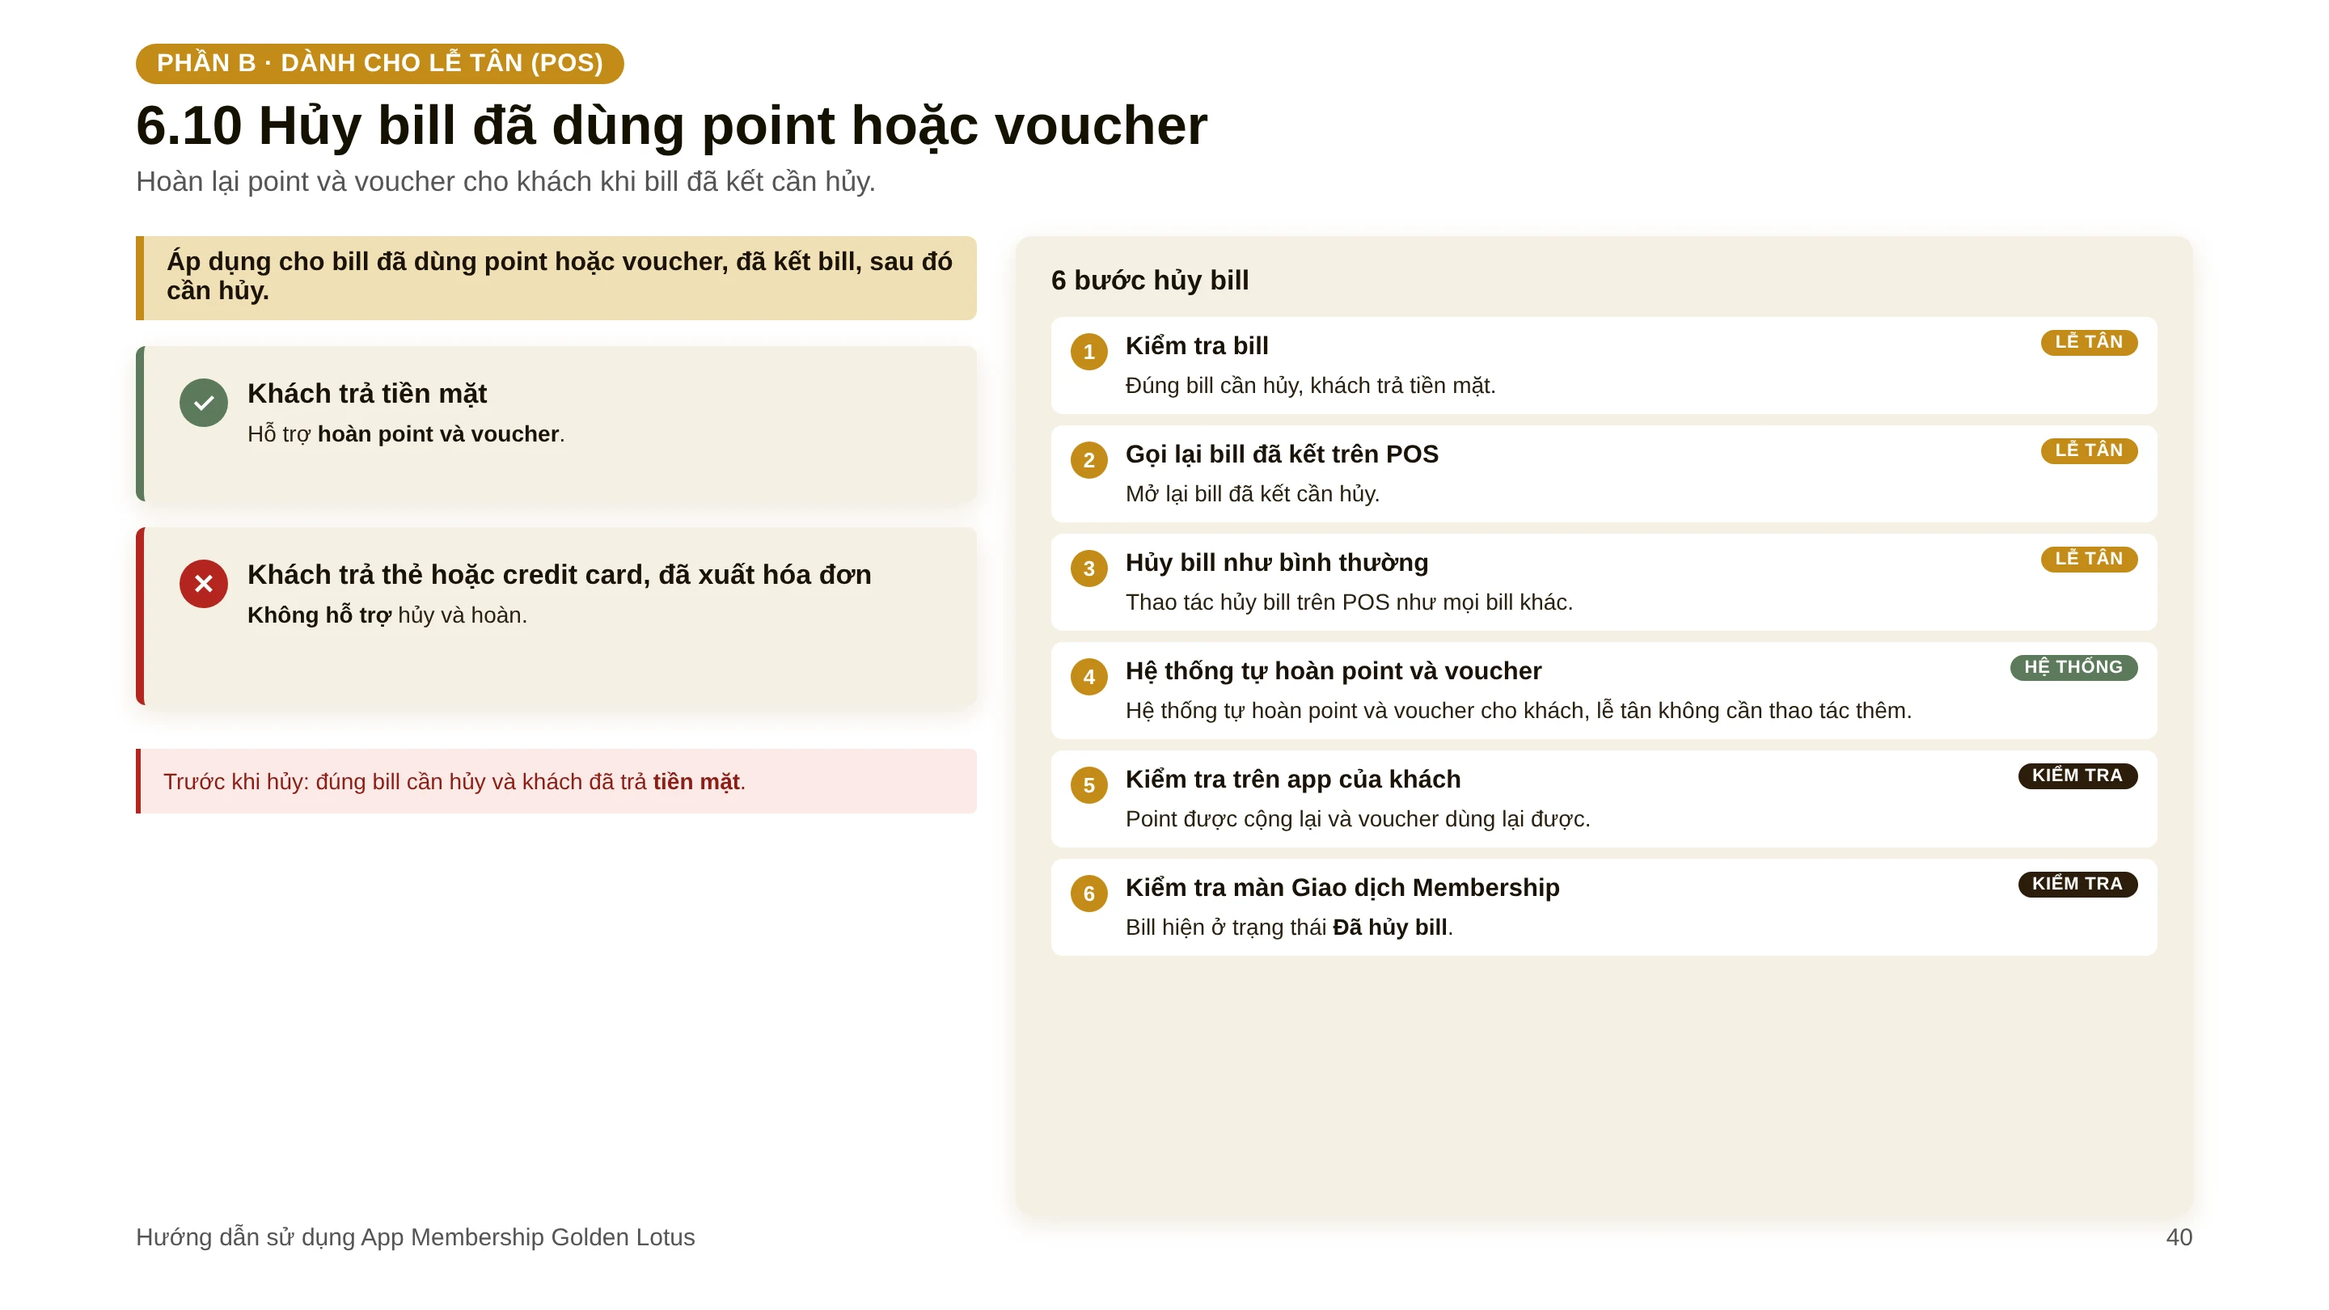
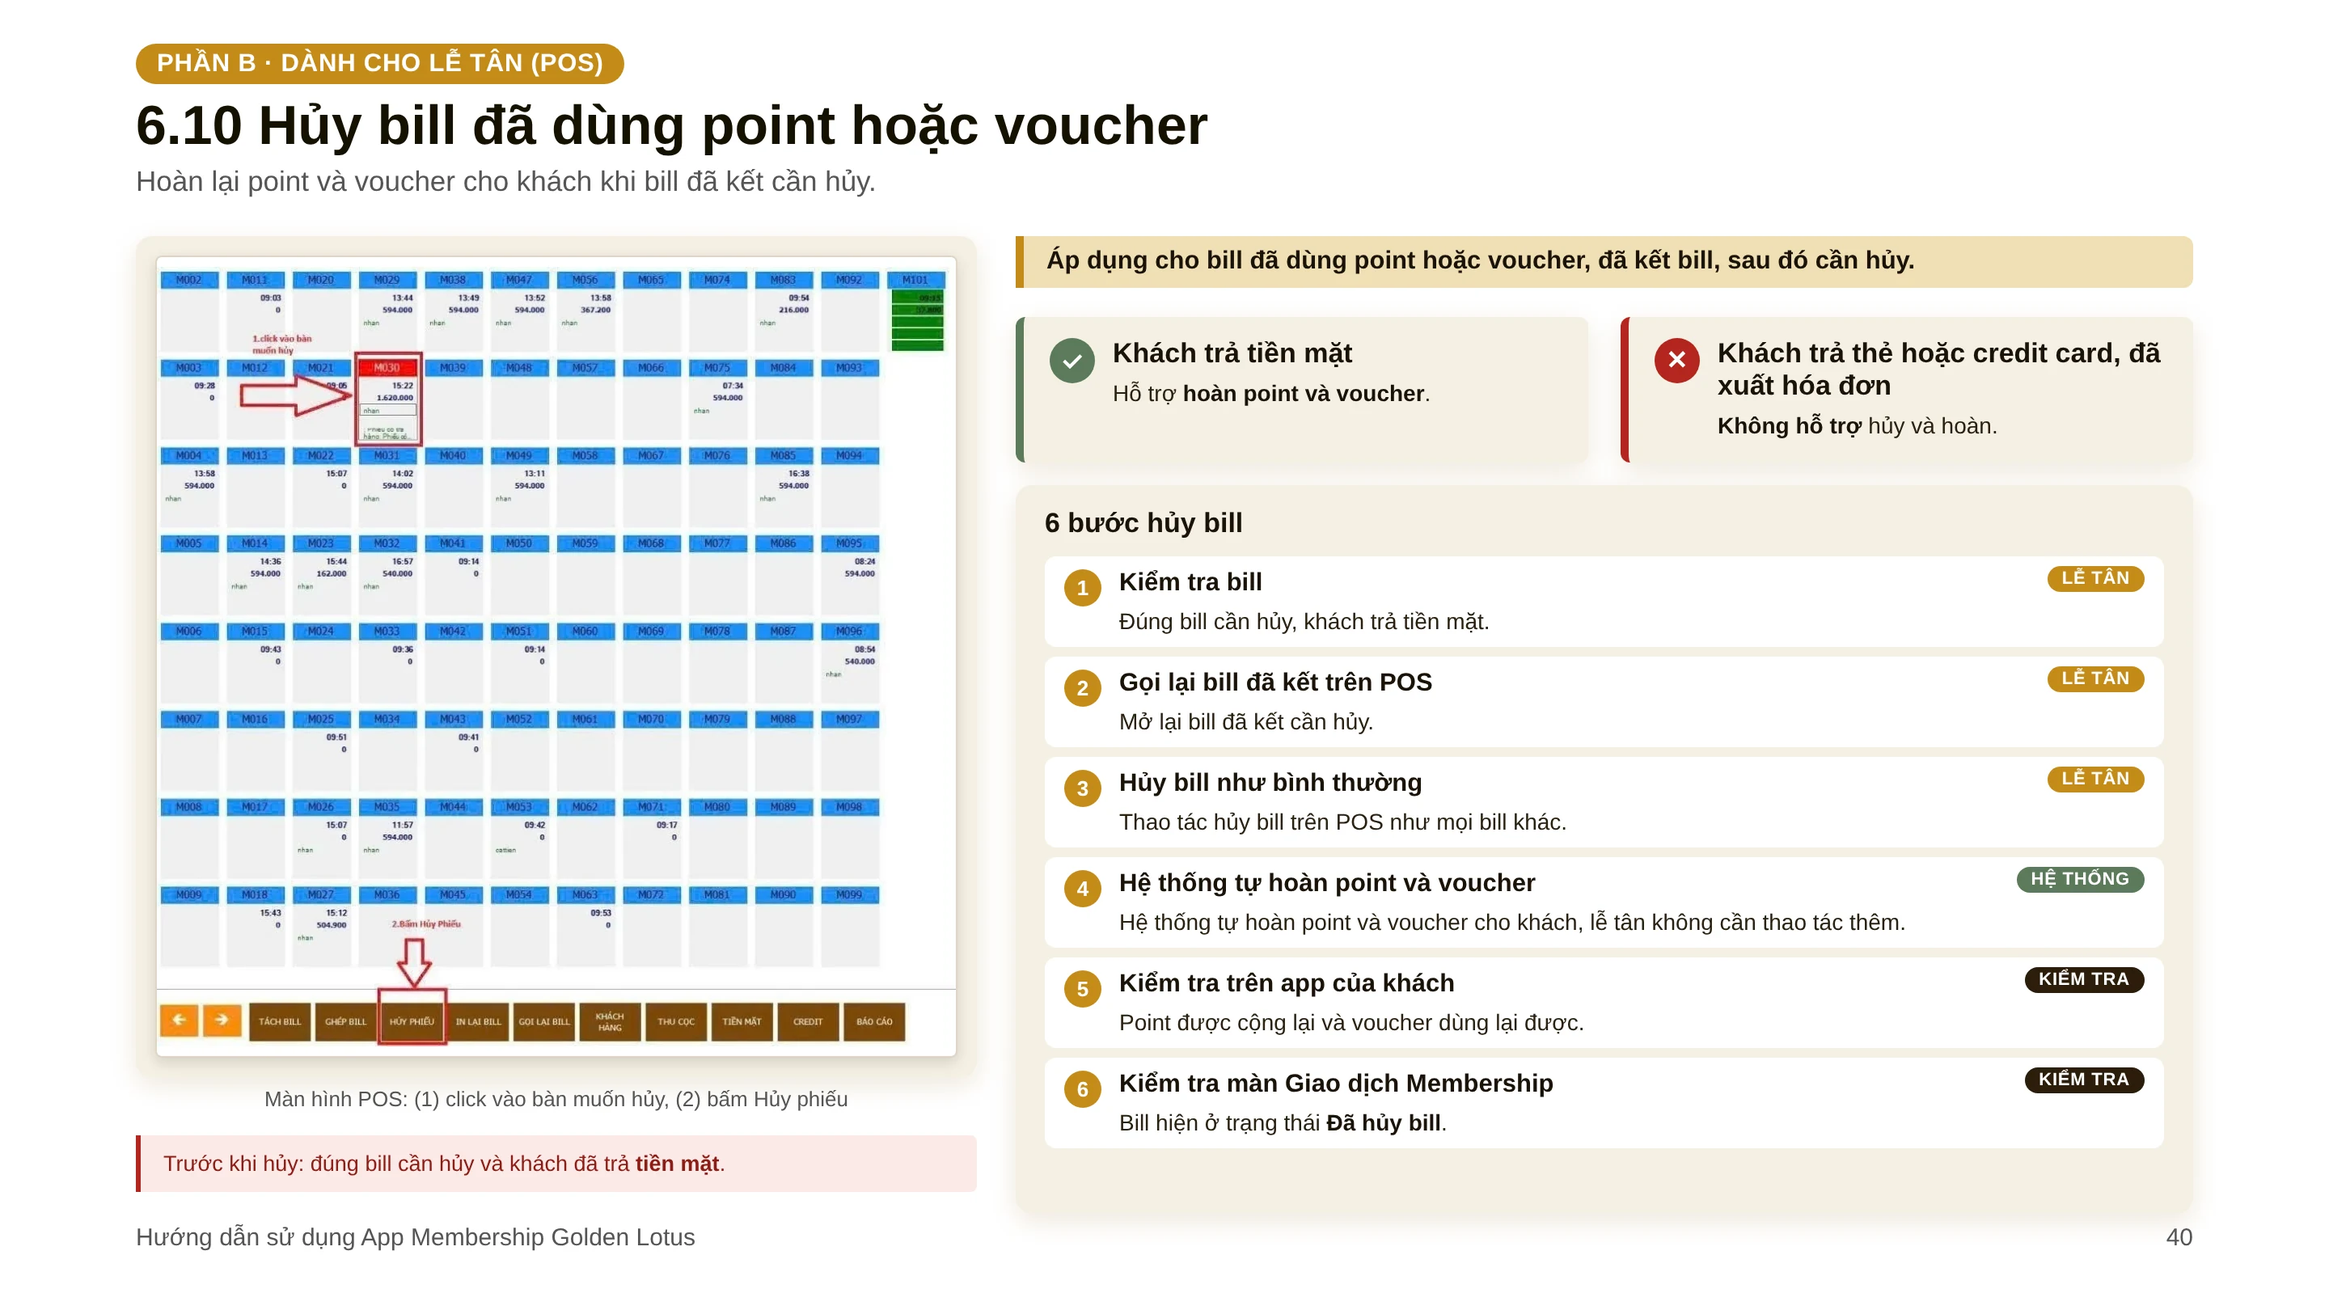
Slide 6.10: chèn ảnh màn hình POS chọn bàn và bấm Hủy phiếu
Claude-Session: https://claude.ai/code/session_01RoCCcCL256VxKSoXurKnYz

Changed region(s): [[0.0312, 0.1543, 0.9688, 0.8951]]

diff --git a/membership-guide/src/app.html b/membership-guide/src/app.html
@@ -60,7 +60,7 @@ const NM=["Đăng ký tài khoản / Đăng nhập","Tìm lại mật khẩu","T
 const TO=[2,4,5,6,7,9,11,12,13,14,15,18,19,21,30,25,26];
 const CARDS=[[5.83,20.56,16.77,18.52],[23.75,20.56,16.77,18.52],[41.67,20.56,16.77,18.52],[59.58,20.56,16.77,18.52],[77.5,20.56,16.77,18.52],[5.83,40.74,16.77,18.52],[23.75,40.74,16.77,18.52],[41.67,40.74,16.77,18.52],[59.58,40.74,16.77,18.52],[5.83,67.96,9.0,18.52],[15.83,67.96,9.0,18.52],[25.83,67.96,9.0,18.52],[35.83,67.96,9.0,18.52],[45.83,67.96,9.0,18.52],[55.83,67.96,9.0,18.52],[72.92,67.96,10.07,18.52],[84.1,67.96,10.07,18.52]];
 const HOT=NM.map((n,i)=>({l:CARDS[i][0],t:CARDS[i][1],w:CARDS[i][2],h:CARDS[i][3],to:TO[i],name:n}));
-const ZONES={"2":[[5.1,28.89,13.09,47.55],[20.44,30.07,13.09,45.19],[35.78,28.65,13.09,48.03],[51.11,36.07,13.09,33.19],[66.45,29.71,13.09,45.92],[81.79,29.75,13.09,45.84]],"3":[[10.98,26.93,15.01,54.53],[42.47,26.93,15.04,54.53],[74.51,26.93,13.96,54.53]],"4":[[5.1,36.35,10.9,32.63],[18.25,37.0,10.9,31.33],[31.39,36.99,10.9,31.36],[44.54,35.58,10.9,34.17],[57.69,39.79,10.9,25.76],[70.83,38.88,10.9,27.57],[83.98,35.28,10.9,34.78]],"5":[[5.9,26.93,14.55,53.47],[23.51,46.94,16.16,13.46],[41.91,32.44,16.16,42.45],[60.32,42.27,16.16,22.8],[79.84,26.93,13.92,53.47]],"6":[[11.09,26.93,14.79,54.53],[41.83,26.93,16.31,54.53],[68.21,37.44,26.55,33.52]],"7":[[5.1,32.86,10.9,39.62],[18.25,37.44,10.9,30.45],[31.39,34.51,10.9,36.32],[44.54,31.95,10.9,41.44],[59.23,26.93,7.81,51.47],[70.83,30.18,10.9,44.98],[83.98,28.28,10.9,48.78]],"8":[[7.41,26.93,15.23,53.47],[28.41,36.35,19.86,34.64],[51.71,31.14,19.86,45.06],[75.96,26.93,17.97,53.47]],"9":[[11.04,26.93,14.9,54.53],[42.62,26.93,14.74,54.53],[68.21,34.78,26.55,38.84]],"10":[[5.1,35.46,10.9,39.48],[18.25,35.15,10.9,40.11],[31.39,39.31,10.9,31.78],[44.54,42.79,10.9,24.82],[57.69,35.05,10.9,40.3],[70.83,39.31,10.9,31.78],[83.98,42.79,10.9,24.82]],"11":[[10.96,26.93,15.05,54.53],[42.43,26.93,15.11,54.53],[68.21,39.52,26.55,29.35]],"12":[[11.12,26.93,14.74,54.53],[42.28,26.93,15.42,54.53],[73.98,26.93,15.01,54.53]],"13":[[7.83,26.93,21.32,54.53],[39.73,26.93,20.51,54.53],[73.98,26.93,15.01,54.53]],"14":[[32.4,19.63,65.97,60.3,"lt_cms.webp",1836,942]],"15":[[6.81,19.63,67.36,62.76,"lt_ds.webp",1862,974]],"16":[[6.81,19.63,84.72,25.03,"lt_filter.webp",1420,234]],"17":[[6.81,19.63,76.39,37.38,"lt_table.webp",1420,389]],"18":[[6.81,19.63,34.03,30.15,"b_bk3.webp",1920,953],[6.81,57.31,34.03,30.15,"b_bk4.webp",1920,953]],"19":[[6.81,19.63,67.36,62.96,"lt_lh.webp",1854,973]],"20":[[6.81,19.63,64.03,11.6,"lh_top.webp",920,92],[6.81,38.89,64.03,40.93,"lh_grid.webp",1340,480]],"21":[[5.83,24.26,52.6,48.57],[60.42,63.89,19.79,25.7]],"22":[[5.83,24.26,54.69,56.16]],"23":[[5.83,24.26,61.46,47.39]],"24":[[6.81,19.63,40.97,36.28,"b_bk5.webp",1920,953],[51.67,19.63,40.97,36.28,"b_bk6.webp",1920,953]],"25":[[27.22,19.63,65.97,59.97,"kt_full.webp",1852,945]],"26":[[6.81,19.63,67.36,61.23,"kt_full.webp",1852,945]],"27":[[6.81,19.63,86.39,18.48,"kt_cards.webp",1430,170],[6.81,42.8,86.39,14.4,"kt_filter.webp",1430,132]],"28":[[6.81,19.63,84.72,42.65,"kt_table.webp",1390,392]],"29":[[6.81,19.63,84.72,42.65,"kt_table.webp",1390,392]],"31":[[7.08, 20.25, 18.06, 53.58, "pos_ph_00.jpg", 425, 652], [52.01, 20.25, 18.06, 53.58, "pos_ph_01.jpg", 416, 630]],"32":[[6.94, 20.0, 26.18, 40.74, "pos_ph_02.jpg", 478, 532], [36.88, 20.0, 26.18, 40.74, "pos_use_point_full.jpg", 1910, 1085], [66.81, 20.0, 26.18, 40.74, "pos_ph_03.jpg", 409, 655]],"33":[[6.94, 20.0, 26.18, 40.74, "pos_ph_04.jpg", 558, 868], [36.88, 20.0, 26.18, 40.74, "pos_ph_05.jpg", 552, 635], [66.81, 20.0, 26.18, 40.74, "pos_ph_06.jpg", 445, 654]],"36":[[6.94, 20.0, 26.18, 40.74, "pos_ph_07.jpg", 425, 652], [36.88, 20.0, 26.18, 40.74, "pos_ph_08.jpg", 416, 630], [66.81, 20.0, 26.18, 40.74, "pos_ph_09.jpg", 1758, 868]],"37":[[6.94, 20.0, 26.18, 40.74, "pos_ph_10.jpg", 506, 848], [36.88, 20.0, 26.18, 40.74, "pos_ph_11.jpg", 987, 862], [66.81, 20.0, 26.18, 40.74, "pos_ph_12.jpg", 2048, 939]],"38":[[6.94, 20.0, 33.89, 37.04, "pos_ph_13.jpg", 935, 646]]};
+const ZONES={"2":[[5.1,28.89,13.09,47.55],[20.44,30.07,13.09,45.19],[35.78,28.65,13.09,48.03],[51.11,36.07,13.09,33.19],[66.45,29.71,13.09,45.92],[81.79,29.75,13.09,45.84]],"3":[[10.98,26.93,15.01,54.53],[42.47,26.93,15.04,54.53],[74.51,26.93,13.96,54.53]],"4":[[5.1,36.35,10.9,32.63],[18.25,37.0,10.9,31.33],[31.39,36.99,10.9,31.36],[44.54,35.58,10.9,34.17],[57.69,39.79,10.9,25.76],[70.83,38.88,10.9,27.57],[83.98,35.28,10.9,34.78]],"5":[[5.9,26.93,14.55,53.47],[23.51,46.94,16.16,13.46],[41.91,32.44,16.16,42.45],[60.32,42.27,16.16,22.8],[79.84,26.93,13.92,53.47]],"6":[[11.09,26.93,14.79,54.53],[41.83,26.93,16.31,54.53],[68.21,37.44,26.55,33.52]],"7":[[5.1,32.86,10.9,39.62],[18.25,37.44,10.9,30.45],[31.39,34.51,10.9,36.32],[44.54,31.95,10.9,41.44],[59.23,26.93,7.81,51.47],[70.83,30.18,10.9,44.98],[83.98,28.28,10.9,48.78]],"8":[[7.41,26.93,15.23,53.47],[28.41,36.35,19.86,34.64],[51.71,31.14,19.86,45.06],[75.96,26.93,17.97,53.47]],"9":[[11.04,26.93,14.9,54.53],[42.62,26.93,14.74,54.53],[68.21,34.78,26.55,38.84]],"10":[[5.1,35.46,10.9,39.48],[18.25,35.15,10.9,40.11],[31.39,39.31,10.9,31.78],[44.54,42.79,10.9,24.82],[57.69,35.05,10.9,40.3],[70.83,39.31,10.9,31.78],[83.98,42.79,10.9,24.82]],"11":[[10.96,26.93,15.05,54.53],[42.43,26.93,15.11,54.53],[68.21,39.52,26.55,29.35]],"12":[[11.12,26.93,14.74,54.53],[42.28,26.93,15.42,54.53],[73.98,26.93,15.01,54.53]],"13":[[7.83,26.93,21.32,54.53],[39.73,26.93,20.51,54.53],[73.98,26.93,15.01,54.53]],"14":[[32.4,19.63,65.97,60.3,"lt_cms.webp",1836,942]],"15":[[6.81,19.63,67.36,62.76,"lt_ds.webp",1862,974]],"16":[[6.81,19.63,84.72,25.03,"lt_filter.webp",1420,234]],"17":[[6.81,19.63,76.39,37.38,"lt_table.webp",1420,389]],"18":[[6.81,19.63,34.03,30.15,"b_bk3.webp",1920,953],[6.81,57.31,34.03,30.15,"b_bk4.webp",1920,953]],"19":[[6.81,19.63,67.36,62.96,"lt_lh.webp",1854,973]],"20":[[6.81,19.63,64.03,11.6,"lh_top.webp",920,92],[6.81,38.89,64.03,40.93,"lh_grid.webp",1340,480]],"21":[[5.83,24.26,52.6,48.57],[60.42,63.89,19.79,25.7]],"22":[[5.83,24.26,54.69,56.16]],"23":[[5.83,24.26,61.46,47.39]],"24":[[6.81,19.63,40.97,36.28,"b_bk5.webp",1920,953],[51.67,19.63,40.97,36.28,"b_bk6.webp",1920,953]],"25":[[27.22,19.63,65.97,59.97,"kt_full.webp",1852,945]],"26":[[6.81,19.63,67.36,61.23,"kt_full.webp",1852,945]],"27":[[6.81,19.63,86.39,18.48,"kt_cards.webp",1430,170],[6.81,42.8,86.39,14.4,"kt_filter.webp",1430,132]],"28":[[6.81,19.63,84.72,42.65,"kt_table.webp",1390,392]],"29":[[6.81,19.63,84.72,42.65,"kt_table.webp",1390,392]],"31":[[7.08, 20.25, 18.06, 53.58, "pos_ph_00.jpg", 425, 652], [52.01, 20.25, 18.06, 53.58, "pos_ph_01.jpg", 416, 630]],"32":[[6.94, 20.0, 26.18, 40.74, "pos_ph_02.jpg", 478, 532], [36.88, 20.0, 26.18, 40.74, "pos_use_point_full.jpg", 1910, 1085], [66.81, 20.0, 26.18, 40.74, "pos_ph_03.jpg", 409, 655]],"33":[[6.94, 20.0, 26.18, 40.74, "pos_ph_04.jpg", 558, 868], [36.88, 20.0, 26.18, 40.74, "pos_ph_05.jpg", 552, 635], [66.81, 20.0, 26.18, 40.74, "pos_ph_06.jpg", 445, 654]],"36":[[6.94, 20.0, 26.18, 40.74, "pos_ph_07.jpg", 425, 652], [36.88, 20.0, 26.18, 40.74, "pos_ph_08.jpg", 416, 630], [66.81, 20.0, 26.18, 40.74, "pos_ph_09.jpg", 1758, 868]],"37":[[6.94, 20.0, 26.18, 40.74, "pos_ph_10.jpg", 506, 848], [36.88, 20.0, 26.18, 40.74, "pos_ph_11.jpg", 987, 862], [66.81, 20.0, 26.18, 40.74, "pos_ph_12.jpg", 2048, 939]],"38":[[6.94, 20.0, 33.89, 37.04, "pos_ph_13.jpg", 935, 646]],"39":[[6.67, 19.51, 34.44, 61.23, "pos_huy_phieu.jpg", 1000, 975]]};
 const SIZES=[148518,242384,443017,373956,424631,517810,395477,518151,401313,393800,597413,375189,449216,393479,329762];
 let IMGS=[];
 const img=document.getElementById('img'),slide=document.getElementById('slide');

diff --git a/membership-guide/src/index.html b/membership-guide/src/index.html
@@ -60,7 +60,7 @@ const NM=["Đăng ký tài khoản / Đăng nhập","Tìm lại mật khẩu","T
 const TO=[2,4,5,6,7,9,11,12,13,14,15,18,19,21,30,25,26];
 const CARDS=[[5.83,20.56,16.77,18.52],[23.75,20.56,16.77,18.52],[41.67,20.56,16.77,18.52],[59.58,20.56,16.77,18.52],[77.5,20.56,16.77,18.52],[5.83,40.74,16.77,18.52],[23.75,40.74,16.77,18.52],[41.67,40.74,16.77,18.52],[59.58,40.74,16.77,18.52],[5.83,67.96,9.0,18.52],[15.83,67.96,9.0,18.52],[25.83,67.96,9.0,18.52],[35.83,67.96,9.0,18.52],[45.83,67.96,9.0,18.52],[55.83,67.96,9.0,18.52],[72.92,67.96,10.07,18.52],[84.1,67.96,10.07,18.52]];
 const HOT=NM.map((n,i)=>({l:CARDS[i][0],t:CARDS[i][1],w:CARDS[i][2],h:CARDS[i][3],to:TO[i],name:n}));
-const ZONES={"2":[[5.1,28.89,13.09,47.55],[20.44,30.07,13.09,45.19],[35.78,28.65,13.09,48.03],[51.11,36.07,13.09,33.19],[66.45,29.71,13.09,45.92],[81.79,29.75,13.09,45.84]],"3":[[10.98,26.93,15.01,54.53],[42.47,26.93,15.04,54.53],[74.51,26.93,13.96,54.53]],"4":[[5.1,36.35,10.9,32.63],[18.25,37.0,10.9,31.33],[31.39,36.99,10.9,31.36],[44.54,35.58,10.9,34.17],[57.69,39.79,10.9,25.76],[70.83,38.88,10.9,27.57],[83.98,35.28,10.9,34.78]],"5":[[5.9,26.93,14.55,53.47],[23.51,46.94,16.16,13.46],[41.91,32.44,16.16,42.45],[60.32,42.27,16.16,22.8],[79.84,26.93,13.92,53.47]],"6":[[11.09,26.93,14.79,54.53],[41.83,26.93,16.31,54.53],[68.21,37.44,26.55,33.52]],"7":[[5.1,32.86,10.9,39.62],[18.25,37.44,10.9,30.45],[31.39,34.51,10.9,36.32],[44.54,31.95,10.9,41.44],[59.23,26.93,7.81,51.47],[70.83,30.18,10.9,44.98],[83.98,28.28,10.9,48.78]],"8":[[7.41,26.93,15.23,53.47],[28.41,36.35,19.86,34.64],[51.71,31.14,19.86,45.06],[75.96,26.93,17.97,53.47]],"9":[[11.04,26.93,14.9,54.53],[42.62,26.93,14.74,54.53],[68.21,34.78,26.55,38.84]],"10":[[5.1,35.46,10.9,39.48],[18.25,35.15,10.9,40.11],[31.39,39.31,10.9,31.78],[44.54,42.79,10.9,24.82],[57.69,35.05,10.9,40.3],[70.83,39.31,10.9,31.78],[83.98,42.79,10.9,24.82]],"11":[[10.96,26.93,15.05,54.53],[42.43,26.93,15.11,54.53],[68.21,39.52,26.55,29.35]],"12":[[11.12,26.93,14.74,54.53],[42.28,26.93,15.42,54.53],[73.98,26.93,15.01,54.53]],"13":[[7.83,26.93,21.32,54.53],[39.73,26.93,20.51,54.53],[73.98,26.93,15.01,54.53]],"14":[[32.4,19.63,65.97,60.3,"lt_cms.webp",1836,942]],"15":[[6.81,19.63,67.36,62.76,"lt_ds.webp",1862,974]],"16":[[6.81,19.63,84.72,25.03,"lt_filter.webp",1420,234]],"17":[[6.81,19.63,76.39,37.38,"lt_table.webp",1420,389]],"18":[[6.81,19.63,34.03,30.15,"b_bk3.webp",1920,953],[6.81,57.31,34.03,30.15,"b_bk4.webp",1920,953]],"19":[[6.81,19.63,67.36,62.96,"lt_lh.webp",1854,973]],"20":[[6.81,19.63,64.03,11.6,"lh_top.webp",920,92],[6.81,38.89,64.03,40.93,"lh_grid.webp",1340,480]],"21":[[5.83,24.26,52.6,48.57],[60.42,63.89,19.79,25.7]],"22":[[5.83,24.26,54.69,56.16]],"23":[[5.83,24.26,61.46,47.39]],"24":[[6.81,19.63,40.97,36.28,"b_bk5.webp",1920,953],[51.67,19.63,40.97,36.28,"b_bk6.webp",1920,953]],"25":[[27.22,19.63,65.97,59.97,"kt_full.webp",1852,945]],"26":[[6.81,19.63,67.36,61.23,"kt_full.webp",1852,945]],"27":[[6.81,19.63,86.39,18.48,"kt_cards.webp",1430,170],[6.81,42.8,86.39,14.4,"kt_filter.webp",1430,132]],"28":[[6.81,19.63,84.72,42.65,"kt_table.webp",1390,392]],"29":[[6.81,19.63,84.72,42.65,"kt_table.webp",1390,392]],"31":[[7.08, 20.25, 18.06, 53.58, "pos_ph_00.jpg", 425, 652], [52.01, 20.25, 18.06, 53.58, "pos_ph_01.jpg", 416, 630]],"32":[[6.94, 20.0, 26.18, 40.74, "pos_ph_02.jpg", 478, 532], [36.88, 20.0, 26.18, 40.74, "pos_use_point_full.jpg", 1910, 1085], [66.81, 20.0, 26.18, 40.74, "pos_ph_03.jpg", 409, 655]],"33":[[6.94, 20.0, 26.18, 40.74, "pos_ph_04.jpg", 558, 868], [36.88, 20.0, 26.18, 40.74, "pos_ph_05.jpg", 552, 635], [66.81, 20.0, 26.18, 40.74, "pos_ph_06.jpg", 445, 654]],"36":[[6.94, 20.0, 26.18, 40.74, "pos_ph_07.jpg", 425, 652], [36.88, 20.0, 26.18, 40.74, "pos_ph_08.jpg", 416, 630], [66.81, 20.0, 26.18, 40.74, "pos_ph_09.jpg", 1758, 868]],"37":[[6.94, 20.0, 26.18, 40.74, "pos_ph_10.jpg", 506, 848], [36.88, 20.0, 26.18, 40.74, "pos_ph_11.jpg", 987, 862], [66.81, 20.0, 26.18, 40.74, "pos_ph_12.jpg", 2048, 939]],"38":[[6.94, 20.0, 33.89, 37.04, "pos_ph_13.jpg", 935, 646]]};
+const ZONES={"2":[[5.1,28.89,13.09,47.55],[20.44,30.07,13.09,45.19],[35.78,28.65,13.09,48.03],[51.11,36.07,13.09,33.19],[66.45,29.71,13.09,45.92],[81.79,29.75,13.09,45.84]],"3":[[10.98,26.93,15.01,54.53],[42.47,26.93,15.04,54.53],[74.51,26.93,13.96,54.53]],"4":[[5.1,36.35,10.9,32.63],[18.25,37.0,10.9,31.33],[31.39,36.99,10.9,31.36],[44.54,35.58,10.9,34.17],[57.69,39.79,10.9,25.76],[70.83,38.88,10.9,27.57],[83.98,35.28,10.9,34.78]],"5":[[5.9,26.93,14.55,53.47],[23.51,46.94,16.16,13.46],[41.91,32.44,16.16,42.45],[60.32,42.27,16.16,22.8],[79.84,26.93,13.92,53.47]],"6":[[11.09,26.93,14.79,54.53],[41.83,26.93,16.31,54.53],[68.21,37.44,26.55,33.52]],"7":[[5.1,32.86,10.9,39.62],[18.25,37.44,10.9,30.45],[31.39,34.51,10.9,36.32],[44.54,31.95,10.9,41.44],[59.23,26.93,7.81,51.47],[70.83,30.18,10.9,44.98],[83.98,28.28,10.9,48.78]],"8":[[7.41,26.93,15.23,53.47],[28.41,36.35,19.86,34.64],[51.71,31.14,19.86,45.06],[75.96,26.93,17.97,53.47]],"9":[[11.04,26.93,14.9,54.53],[42.62,26.93,14.74,54.53],[68.21,34.78,26.55,38.84]],"10":[[5.1,35.46,10.9,39.48],[18.25,35.15,10.9,40.11],[31.39,39.31,10.9,31.78],[44.54,42.79,10.9,24.82],[57.69,35.05,10.9,40.3],[70.83,39.31,10.9,31.78],[83.98,42.79,10.9,24.82]],"11":[[10.96,26.93,15.05,54.53],[42.43,26.93,15.11,54.53],[68.21,39.52,26.55,29.35]],"12":[[11.12,26.93,14.74,54.53],[42.28,26.93,15.42,54.53],[73.98,26.93,15.01,54.53]],"13":[[7.83,26.93,21.32,54.53],[39.73,26.93,20.51,54.53],[73.98,26.93,15.01,54.53]],"14":[[32.4,19.63,65.97,60.3,"lt_cms.webp",1836,942]],"15":[[6.81,19.63,67.36,62.76,"lt_ds.webp",1862,974]],"16":[[6.81,19.63,84.72,25.03,"lt_filter.webp",1420,234]],"17":[[6.81,19.63,76.39,37.38,"lt_table.webp",1420,389]],"18":[[6.81,19.63,34.03,30.15,"b_bk3.webp",1920,953],[6.81,57.31,34.03,30.15,"b_bk4.webp",1920,953]],"19":[[6.81,19.63,67.36,62.96,"lt_lh.webp",1854,973]],"20":[[6.81,19.63,64.03,11.6,"lh_top.webp",920,92],[6.81,38.89,64.03,40.93,"lh_grid.webp",1340,480]],"21":[[5.83,24.26,52.6,48.57],[60.42,63.89,19.79,25.7]],"22":[[5.83,24.26,54.69,56.16]],"23":[[5.83,24.26,61.46,47.39]],"24":[[6.81,19.63,40.97,36.28,"b_bk5.webp",1920,953],[51.67,19.63,40.97,36.28,"b_bk6.webp",1920,953]],"25":[[27.22,19.63,65.97,59.97,"kt_full.webp",1852,945]],"26":[[6.81,19.63,67.36,61.23,"kt_full.webp",1852,945]],"27":[[6.81,19.63,86.39,18.48,"kt_cards.webp",1430,170],[6.81,42.8,86.39,14.4,"kt_filter.webp",1430,132]],"28":[[6.81,19.63,84.72,42.65,"kt_table.webp",1390,392]],"29":[[6.81,19.63,84.72,42.65,"kt_table.webp",1390,392]],"31":[[7.08, 20.25, 18.06, 53.58, "pos_ph_00.jpg", 425, 652], [52.01, 20.25, 18.06, 53.58, "pos_ph_01.jpg", 416, 630]],"32":[[6.94, 20.0, 26.18, 40.74, "pos_ph_02.jpg", 478, 532], [36.88, 20.0, 26.18, 40.74, "pos_use_point_full.jpg", 1910, 1085], [66.81, 20.0, 26.18, 40.74, "pos_ph_03.jpg", 409, 655]],"33":[[6.94, 20.0, 26.18, 40.74, "pos_ph_04.jpg", 558, 868], [36.88, 20.0, 26.18, 40.74, "pos_ph_05.jpg", 552, 635], [66.81, 20.0, 26.18, 40.74, "pos_ph_06.jpg", 445, 654]],"36":[[6.94, 20.0, 26.18, 40.74, "pos_ph_07.jpg", 425, 652], [36.88, 20.0, 26.18, 40.74, "pos_ph_08.jpg", 416, 630], [66.81, 20.0, 26.18, 40.74, "pos_ph_09.jpg", 1758, 868]],"37":[[6.94, 20.0, 26.18, 40.74, "pos_ph_10.jpg", 506, 848], [36.88, 20.0, 26.18, 40.74, "pos_ph_11.jpg", 987, 862], [66.81, 20.0, 26.18, 40.74, "pos_ph_12.jpg", 2048, 939]],"38":[[6.94, 20.0, 33.89, 37.04, "pos_ph_13.jpg", 935, 646]],"39":[[6.67, 19.51, 34.44, 61.23, "pos_huy_phieu.jpg", 1000, 975]]};
 const SIZES=[148518,242384,443017,373956,424631,517810,395477,518151,401313,393800,597413,375189,449216,393479,329762];
 let IMGS=[];
 const img=document.getElementById('img'),slide=document.getElementById('slide');
